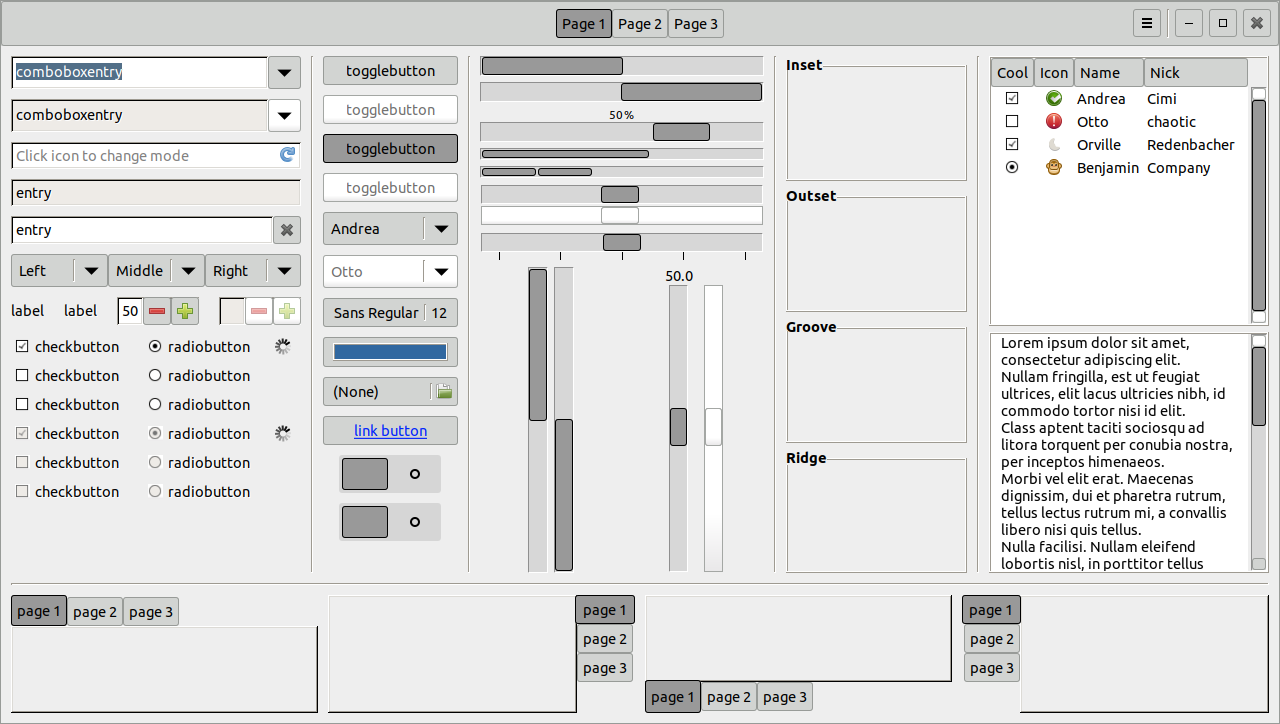
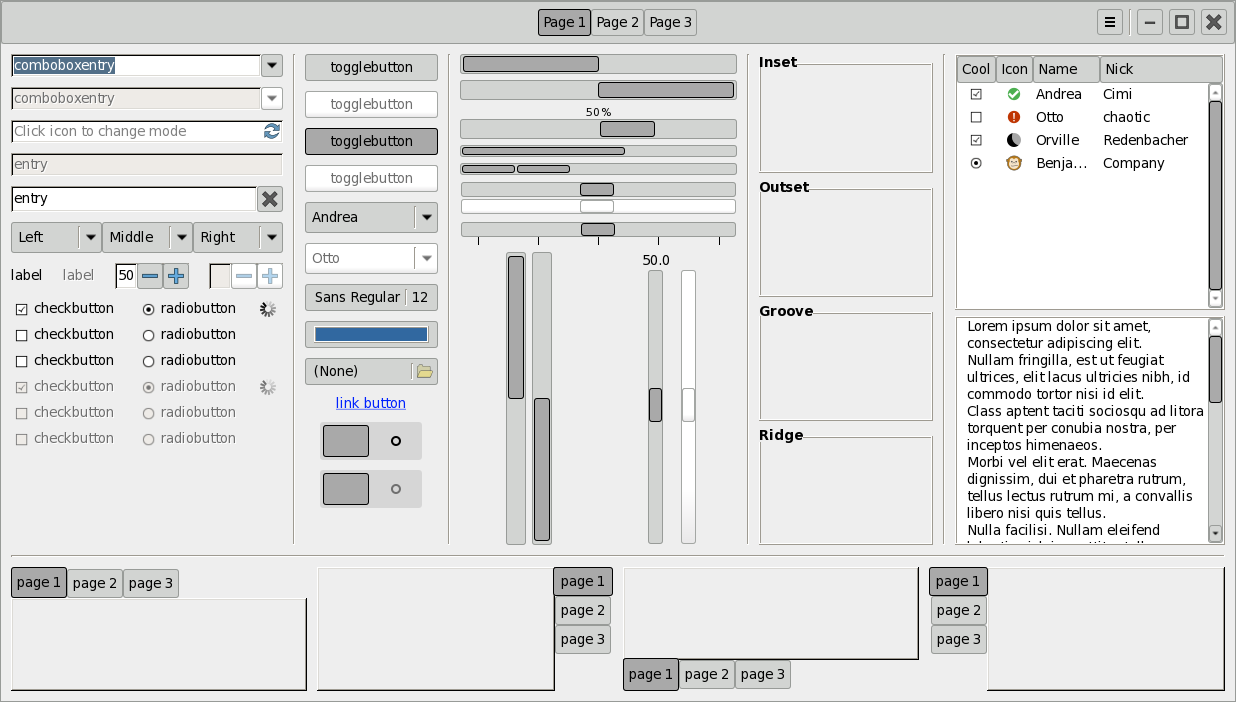
fix relief issue and scrollbars
re #1

diff --git a/src/gtk-3.0/gtk-widgets.css b/src/gtk-3.0/gtk-widgets.css
@@ -61,13 +61,12 @@ rubberband {
 /***********
  * buttons *
  ***********/
-button, .button {
-	background-color: #D2D4D2;
-	border: 1px solid #989B98;
-	border-radius: 3px;
-	padding: .35em;
+button.flat {
+	background-color: transparent;
+	border: none;
 }
-button:hover, .button:hover {
+button:not(.flat) , 
+.button {
 	background-color: @theme_selected_bg_color;
 	border: 1px solid black;
 }
@@ -135,15 +134,19 @@ scrollbar.horizontal slider {
 	min-width: .5rem;
 }
 scrollbar.vertical button.up {
+	min-height: 0.5rem;
 	-gtk-icon-source: -gtk-icontheme("pan-up-symbolic");
 }
 scrollbar.vertical button.down {
+	min-height: 0.5rem;
 	-gtk-icon-source: -gtk-icontheme("pan-down-symbolic");
 }
 scrollbar.horizontal button.up {
+	min-width: 0.5rem;
 	-gtk-icon-source: -gtk-icontheme("pan-start-symbolic");
 }
 scrollbar.horizontal button.down {
+	min-width: 0.5rem;
 	-gtk-icon-source: -gtk-icontheme("pan-end-symbolic");
 }
 
